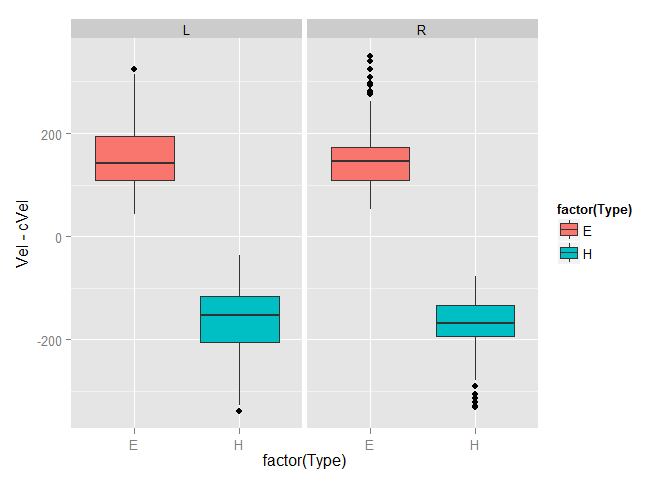
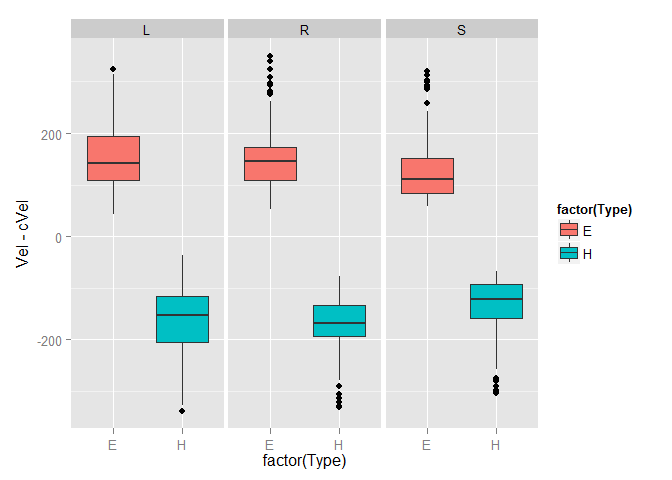
Small Addition to markdown
added static stimulation to the delta V plot.

diff --git a/R analysis/NRGSTIM.html b/R analysis/NRGSTIM.html
@@ -140,10 +140,12 @@ qplot(factor(Loc),Lat,data=dlr,facets=Type~Dir,geom='boxplot',ylab='Latency (ms)
 controlv&lt;-ggplot(data=p,aes(factor(Type),cVel, fill=factor(Type)),facets=.~Dir)
 controlv+geom_boxplot()+facet_grid(.~Dir)</code></pre>
[1 lines of base64/hex data omitted]
-<p>There is more variability in the combination of eye and head movements used to make rightward movements during the gap in pursuit. We can subtract this from the peak velocity we observe on stimulation to obtain the change in velocity produced, or <span class="math">\(\{delta}V\)</span>.</p>
-<pre class="r"><code>deltav&lt;-ggplot(data=p,aes(factor(Type),Vel-cVel, fill=factor(Type)),facets=.~Dir)
-deltav+geom_boxplot()+facet_grid(.~Dir)</code></pre>
[1 lines of base64/hex data omitted]
+<p>There is more variability in the combination of eye and head movements used to make rightward movements during the gap in pursuit. We can subtract this from the peak velocity we observe on stimulation to obtain the change in velocity produced, or <span class="math">\(\Delta V\)</span>.</p>
+<pre class="r"><code>x&lt;-d
+x$cVel[is.na(x$cVel)]=0
+deltavall&lt;-ggplot(data=x,aes(factor(Type),Vel-cVel, fill=factor(Type)),facets=.~Dir)
+deltavall+geom_boxplot()+facet_grid(.~Dir)</code></pre>
[1 lines of base64/hex data omitted]
 <pre class="r"><code>#make this data frame to compare eye and head on the same trial. The original data frame is organized so the trials are in order
 ddp&lt;-data.frame(dlr$Vel[dlr$Type=='E'],dlr$Vel[dlr$Type=='H'])
 names(ddp)&lt;-c(&quot;Ev&quot;,&quot;Hv&quot;)

diff --git a/R analysis/NRGSTIM.md b/R analysis/NRGSTIM.md
@@ -169,12 +169,14 @@ controlv+geom_boxplot()+facet_grid(.~Dir)
 
 ![](NRGSTIM_files/figure-html/unnamed-chunk-8-1.png) 
 
-There is more variability in the combination of eye and head movements used to make rightward movements during the gap in pursuit. We can subtract this from the peak velocity we observe on stimulation to obtain the change in velocity produced, or $\{delta}V$.
+There is more variability in the combination of eye and head movements used to make rightward movements during the gap in pursuit. We can subtract this from the peak velocity we observe on stimulation to obtain the change in velocity produced, or $\Delta V$.
 
 
 ```r
-deltav<-ggplot(data=p,aes(factor(Type),Vel-cVel, fill=factor(Type)),facets=.~Dir)
-deltav+geom_boxplot()+facet_grid(.~Dir)
+x<-d
+x$cVel[is.na(x$cVel)]=0
+deltavall<-ggplot(data=x,aes(factor(Type),Vel-cVel, fill=factor(Type)),facets=.~Dir)
+deltavall+geom_boxplot()+facet_grid(.~Dir)
 ```
 
 ![](NRGSTIM_files/figure-html/unnamed-chunk-9-1.png) 
